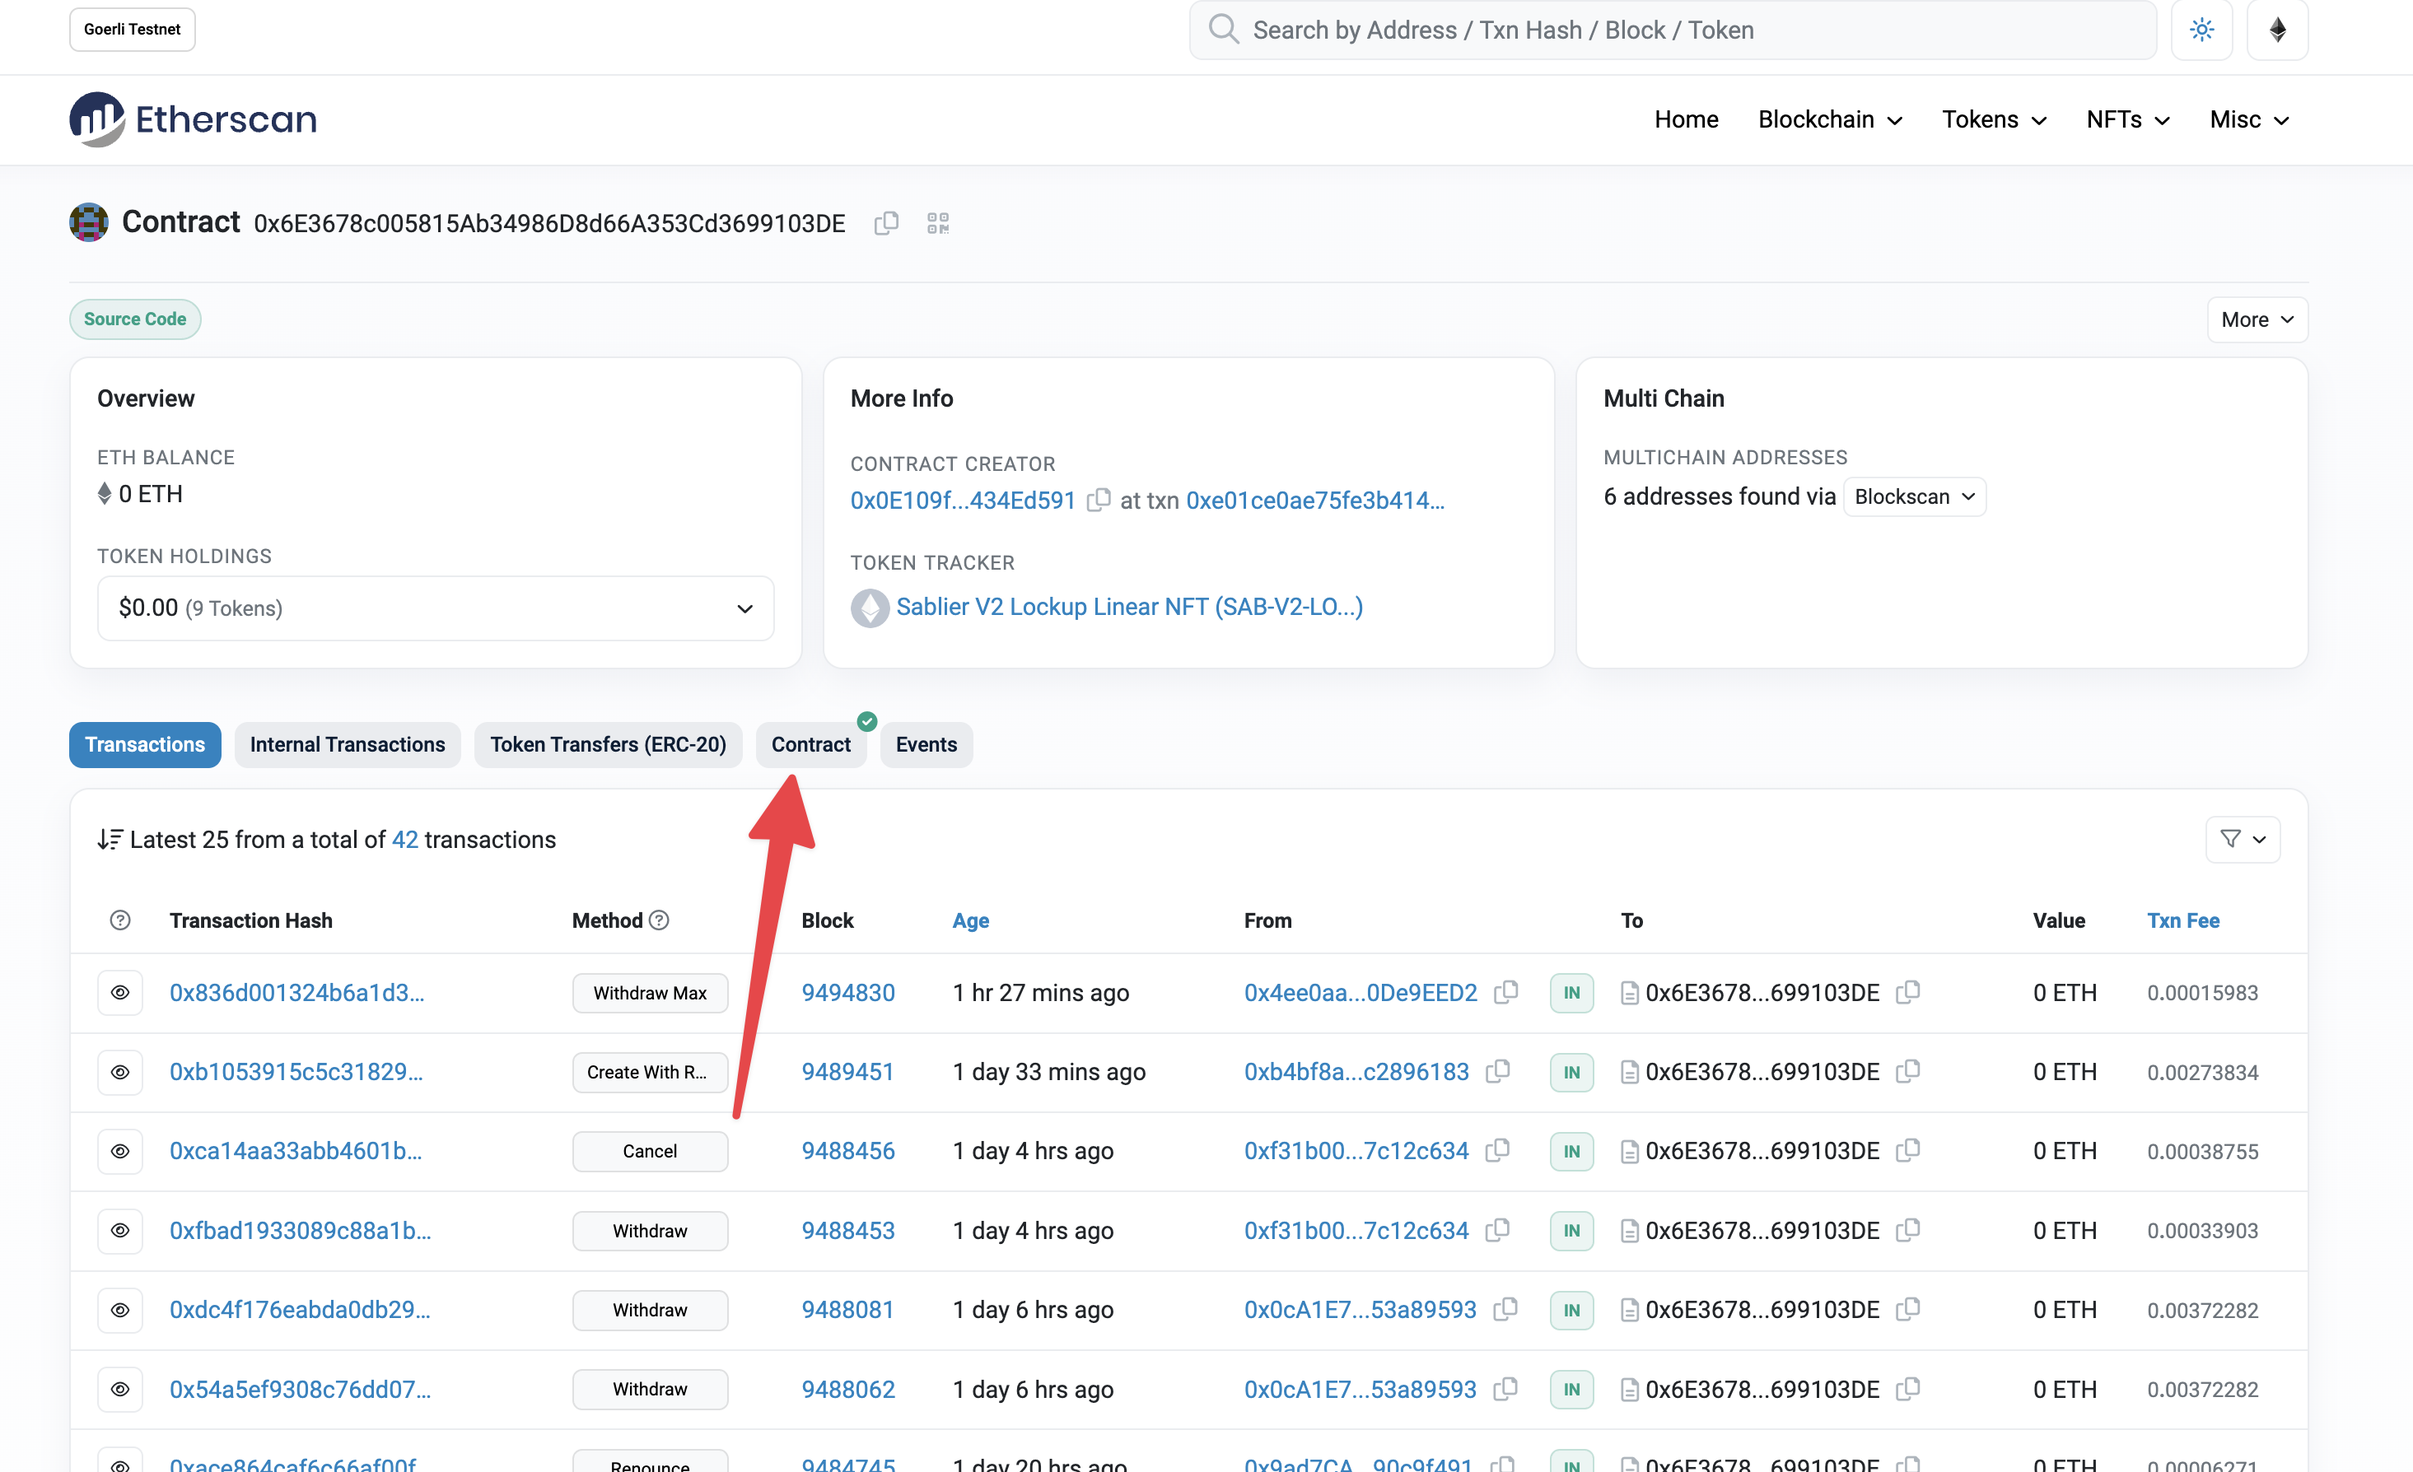
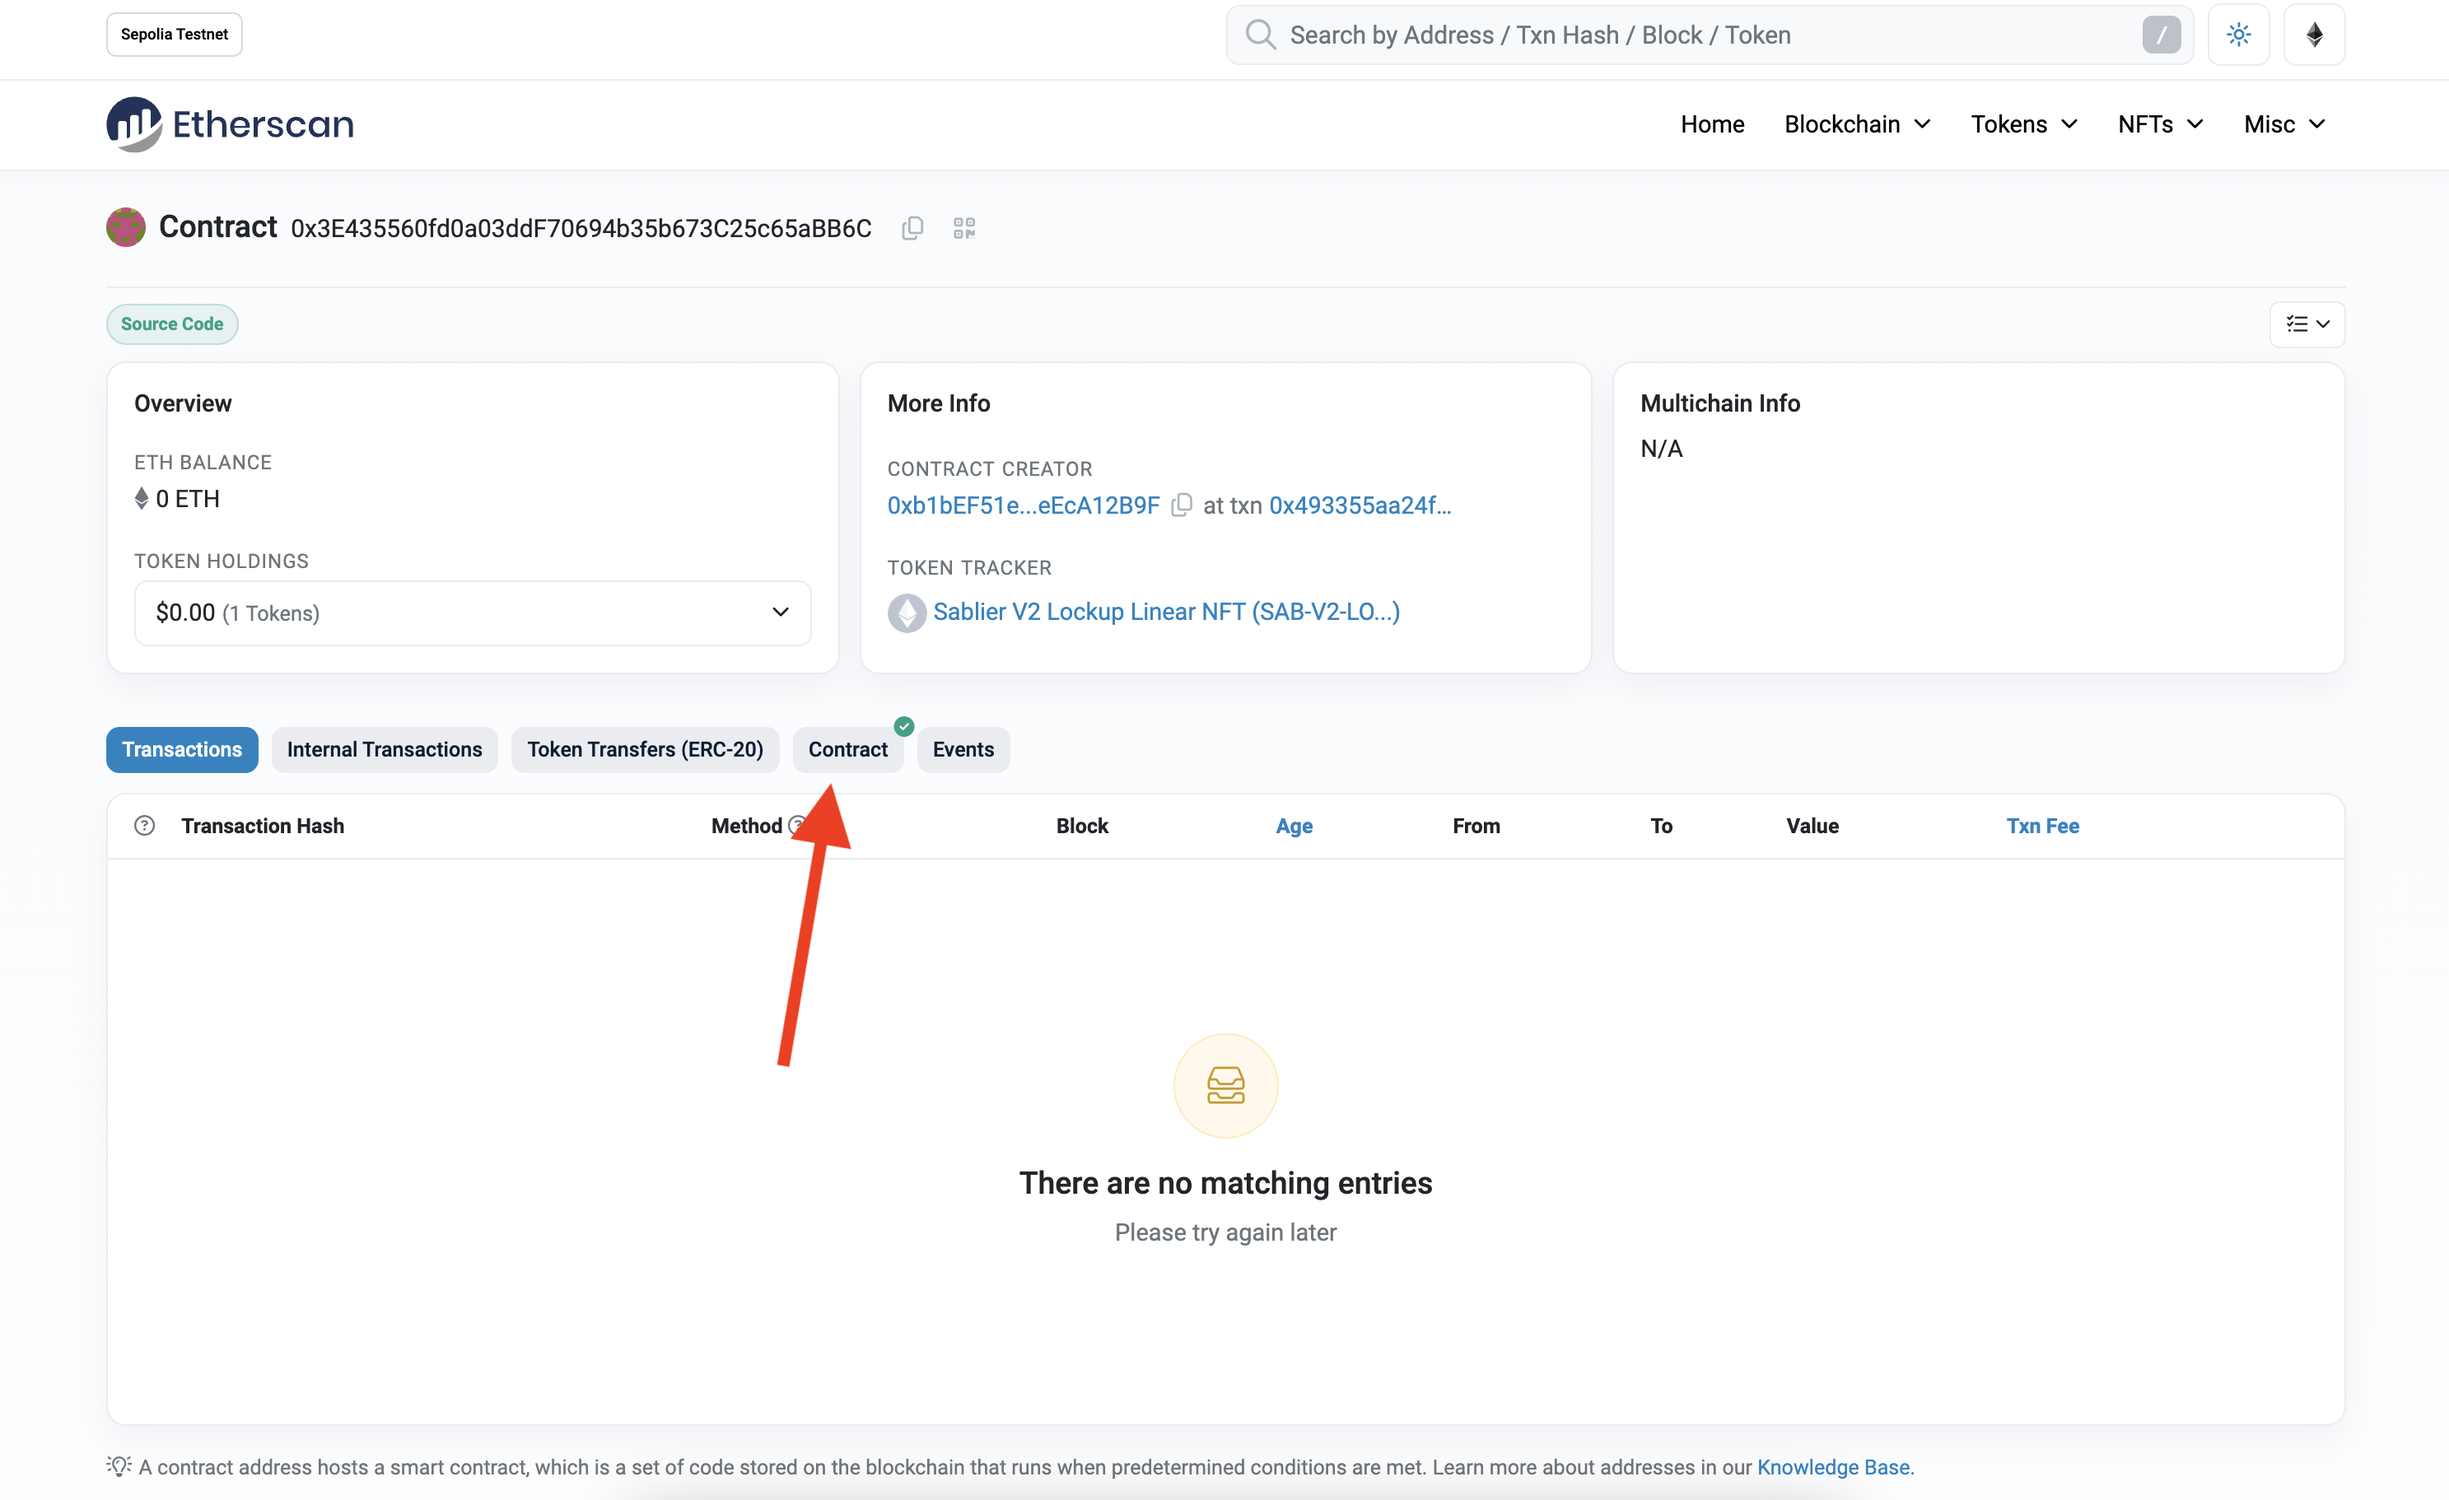
update etherscan page with v2.2 screenshots

diff --git a/docs/contracts/v2/guides/08-etherscan.md b/docs/contracts/v2/guides/08-etherscan.md
@@ -94,16 +94,25 @@ provide it as the following:
 
 :::tip
 
-In case of inline input, ensure the following best practices:
+In case of tuple, ensure to follow the best practices:
 
-1. Wrap addresses in quotes
-2. Use square brakets
+1. Use square brackets
+2. Wrap addresses in double quotes
 3. Wrap large numbers in quotes
 
 Follow [this guide](https://info.etherscan.com/understanding-the-required-input-formats-for-read-write-contract-tab/)
 from Etherscan to learn how to correctly format input data for Write Contract tab.
 
 :::
+
+As an example, in the screenshot below, we are providing input parameters for
+[`createWithTimestampsLL`](/contracts/v2/reference/periphery/contract.SablierV2BatchLockup#createwithtimestampsll)
+function in
+[`SablierV2BatchLockup`](https://sepolia.etherscan.io/address/0x04A9c14b7a000640419aD5515Db4eF4172C00E31#writeContract)
+contract. As you can see, since `batch` requires a tuple and does not break it down into separate fields, we had to use
+the above method.
+
+![Etherscan 08](/img/etherscan-tutorial/08.png)
 
 #### Sender
 
@@ -159,13 +168,12 @@ should be UNIX timestamps (represented in **seconds**). You can find a Unix time
 [here](https://www.unixtimestamp.com/).
 
 If you prefer to not have a cliff, you can simply put the cliff time as 0 like in this example. If, however, you want to
-have a cliff, fill in the timestamp for the the cliff there. Make sure to not leave spaces between the values, including
-after the commas. Here is how it should look like `[<start timestamp>,<cliff timestamp>,<end timestamp>]`
+have a cliff, fill in the timestamp for the the cliff there.
 
-| Total Duration | Cliff Duration | [Start, Cliff, End]                  |
-| :------------- | :------------- | ------------------------------------ |
-| 1 year         | no cliff       | `[1704067200,0,1735689600]`          |
-| 1 year         | 1 day          | `[1704067200,1704153600,1735689600]` |
+| Total Duration | Cliff Duration | [Start, Cliff, End]                    |
+| :------------- | :------------- | -------------------------------------- |
+| 1 year         | no cliff       | `[1704067200, 0, 1735689600]`          |
+| 1 year         | 1 day          | `[1704067200, 1704153600, 1735689600]` |
 
 #### Broker
 
@@ -178,8 +186,8 @@ You can set the `broker` field to address zero and `zero` fees. Read more about 
 
 Inside tuples/arrays (the `[ ... ]` structures in the example) make sure that you:
 
-- don't leave empty spaces after `,` (e.g. `[a,b]` is fine, but `[a, b]` isn't)
-- wrap addresses between double quotes, i.e. `" "`
+- Use square brackets
+- Wrap addresses in double quotes, i.e. `" "`
 
 :::
 
@@ -200,10 +208,10 @@ the stream (in seconds) and the duration of the cliff (in seconds).
 }
 ```
 
-| Total Duration | Cliff Duration | [Cliff, Total]   |
-| :------------- | :------------- | ---------------- |
-| 10 days        | no cliff       | `[0,864000]`     |
-| 10 days        | 1 day          | `[86400,864000]` |
+| Total Duration | Cliff Duration | [Cliff, Total]    |
+| :------------- | :------------- | ----------------- |
+| 10 days        | no cliff       | `[0, 864000]`     |
+| 10 days        | 1 day          | `[86400, 864000]` |
 
 ## Withdrawing from a Stream
 
